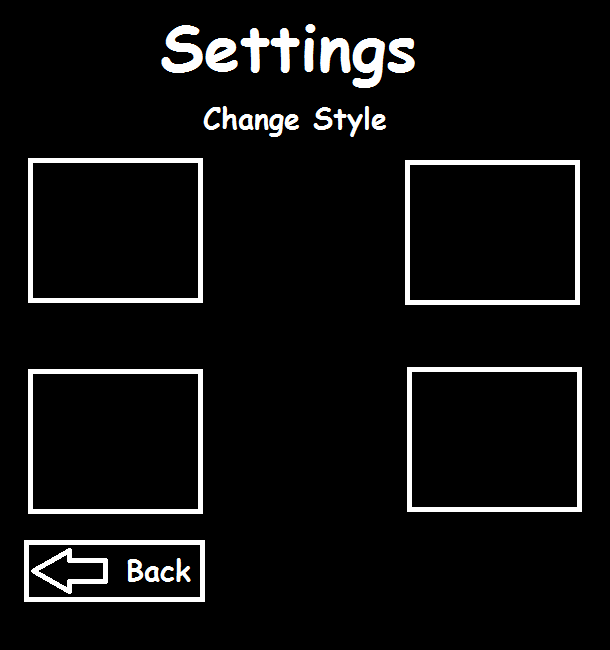
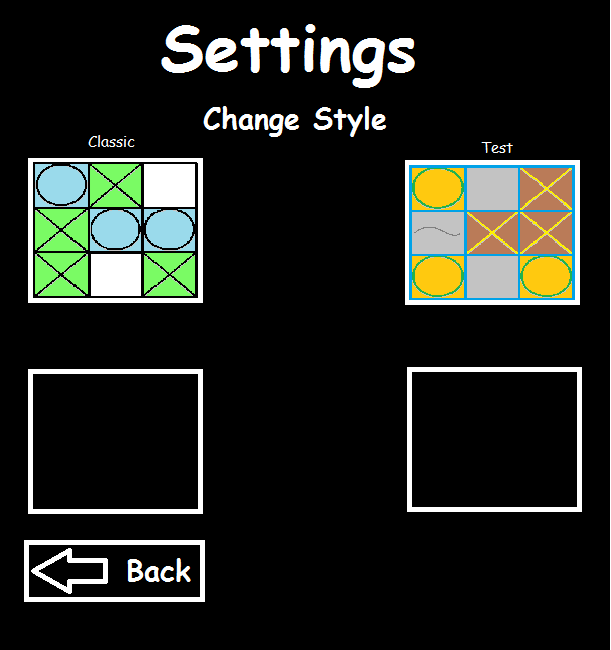
Changes to make graphics switchable
make some skins for it mine are shit af

diff --git a/TicTacToe/settings.py b/TicTacToe/settings.py
@@ -1,5 +1,5 @@
 from main import *
-global images
+
 #0-board
 #1-x
 #2-o
@@ -12,15 +12,7 @@ def print(text):
     textg = font.render(str(text), 4, (255, 255, 255))
     screen.blit(textg, (40,610))
     pygame.display.flip()
-    
 #normal images
-images=[
-pygame.image.load("images/classic/board.png"),
-pygame.image.load('images/classic/x.png'),
-pygame.image.load('images/classic/o.png'),
-pygame.image.load("images/classic/xwon.png"),
-pygame.image.load("images/classic/owin.png")
-]
 def settingsmenu():
     settingsmenu=pygame.image.load("images/menu/settingsmenu.png")
     screen.blit(settingsmenu,(0,0))
@@ -33,7 +25,7 @@ def settingsmenu():
                 pos = pygame.mouse.get_pos()
             #top left button
                 if pos[0] in range(30,200) and pos[1] in range(160,300):
-                    print("Board Loaded - Classic")
+                    print("Board Loaded - Classic Board")
                     images=[
                     pygame.image.load("images/classic/board.png"),
                     pygame.image.load('images/classic/x.png'),
@@ -42,14 +34,21 @@ def settingsmenu():
                     pygame.image.load("images/classic/owin.png")
                     ]
                 elif pos[0] in range(400,600) and pos[1] in range(160,300):
-                    #add in the image files  you want, NEED TO BE CORRECT SIZE
-                    print("Board Loaded - Techno")
+                    print("Board Loaded - Test Board")
+                    images=[
+                    pygame.image.load("images/test/board.png"),
+                    pygame.image.load('images/test/x.png'),
+                    pygame.image.load('images/test/o.png'),
+                    pygame.image.load("images/test/xwon.png"),
+                    pygame.image.load("images/test/owin.png")
+                    ]
+                    
                 elif pos[0] in range(30,200) and pos[1] in range(370,510):
                     print("Board Loaded - Jungle")
                 elif pos[0] in range(400,600) and pos[1] in range(370,510):
                     print("Board Loaded - Underwater")         
                 elif pos[0] in range(23,204) and pos[1] in range(540,600):
-                    q=True
+                    return images
                     
 if __name__=="__main__":
     settingsmenu()

diff --git a/TicTacToe/main.py b/TicTacToe/main.py
@@ -6,6 +6,13 @@ pygame.init()
 pygame.display.set_icon(pygame.image.load("images/misc/icon.png"))
 screen=pygame.display.set_mode((610, 650))
 clock = pygame.time.Clock()
+images=[
+pygame.image.load("images/classic/board.png"),
+pygame.image.load('images/classic/x.png'),
+pygame.image.load('images/classic/o.png'),
+pygame.image.load("images/classic/xwon.png"),
+pygame.image.load("images/classic/owin.png")
+]
 rick=pygame.image.load("images/misc/rick.png")
 pygame.display.set_caption("TicTacPro Game","TicTacPro")
 #all sound files from sounddogs.com royalty free and some editied by me
@@ -26,7 +33,7 @@ from firstgo import *
 from settings import *
 from logic import *
 
-def mainmenu():
+def mainmenu(images):
     q=False
     while not q:
         screen.blit(mainmenuimg,(0,0))
@@ -40,14 +47,15 @@ def mainmenu():
                     online(whosturn)
                     
                 elif pos[0] in range(50,560) and pos[1] in range(190,285):
-                    offline1p(whosturn)
+                    whosturn=chooseturn()
+                    offline1p("easy",whosturn,images)
                     
                 elif pos[0] in range(50,560) and pos[1] in range(290,385):
                     whosturn=chooseturn()
-                    offline2p(whosturn)
+                    offline2p(whosturn,images)
                     
                 elif pos[0] in range(50,560) and pos[1] in range(390,485):
-                    settingsmenu()
+                    images=settingsmenu()
                     
                 elif pos[0] in range(50,560) and pos[1] in range(490,585):
                     achievements()
@@ -58,4 +66,4 @@ def mainmenu():
                 
 #funtion for the game running in offline 2 player mode
 if __name__=="__main__":
-    mainmenu()
+    mainmenu(images)

diff --git a/TicTacToe/offline1p.py b/TicTacToe/offline1p.py
@@ -2,7 +2,7 @@ from main import *
 from logic import *
 import random
 
-def offline1p(difficulty, turn):
+def offline1p(difficulty, turn,images):
     """runs the offline 1 player iteration of the game"""
     screen=pygame.display.set_mode((610, 650))
     pygame.mixer.music.play(-1)
@@ -20,11 +20,11 @@ def offline1p(difficulty, turn):
                     pos = pygame.mouse.get_pos()
                     valid=validmove(pos,used)
                     if valid:
-                        drawbox(turn,pos,used)
+                        drawbox(turn,pos,used,images)
                         isgamewon=gamewon(used)
                         count+=1
                         if isgamewon[0]:
-                            drawline(isgamewon[1],turn)
+                            drawline(isgamewon[1],turn,images)
                             break
                         turn=not turn
                     else:
@@ -43,11 +43,11 @@ def offline1p(difficulty, turn):
                 valid=validmove(pos,used)
                 time.sleep(0.5)
                 if valid:
-                    drawbox(turn,pos,used)
+                    drawbox(turn,pos,used,images)
                     isgamewon=gamewon(used)
                     count+=1
                     if isgamewon[0]:
-                        drawline(isgamewon[1],turn)
+                        drawline(isgamewon[1],turn,images)
                         break
                     turn=not turn
                 else:
@@ -61,4 +61,4 @@ def offline1p(difficulty, turn):
     time.sleep(2) 
 
 if __name__=="__main__":
-    offline1p("easy",True)
+    offline1p("easy",True,images)

diff --git a/TicTacToe/offline2p.py b/TicTacToe/offline2p.py
@@ -1,7 +1,7 @@
 from main import *
 from logic import *
 
-def offline2p(turn):
+def offline2p(turn,images):
     """runs the offline 2 player iteration of the game"""
     screen=pygame.display.set_mode((610, 650))
     pygame.mixer.music.play(-1)
@@ -19,11 +19,11 @@ def offline2p(turn):
                 valid=validmove(pos,used)
                 if valid:
                     clicksound.play()
-                    drawbox(turn,pos,used)
+                    drawbox(turn,pos,used,images)
                     isgamewon=gamewon(used)
                     count+=1
                     if isgamewon[0]:
-                        drawline(isgamewon[1],turn)
+                        drawline(isgamewon[1],turn,images)
                         break
                     turn=not turn
                 else:
@@ -40,4 +40,4 @@ def offline2p(turn):
     time.sleep(2)
     
 if __name__=="__main__":
-    offline2p(True)
+    offline2p(True,images)

diff --git a/TicTacToe/logic.py b/TicTacToe/logic.py
@@ -94,7 +94,7 @@ def rickcheck(pos):
         screen.blit(pygame.image.load("images/misc/temp.png"),(0,0))
         pygame.display.flip()
         
-def drawbox(turn,pos,used):
+def drawbox(turn,pos,used,images):
     """Draws the game board, takes in the image
     """
     #box7
@@ -178,7 +178,7 @@ def drawbox(turn,pos,used):
     pygame.display.flip()
     return used
 
-def drawline(wincombo,turn):
+def drawline(wincombo,turn,images):
     """when the game is won it creates the effect of the flashing winning boxes"""
     xw=images[3]
     ow=images[4]
